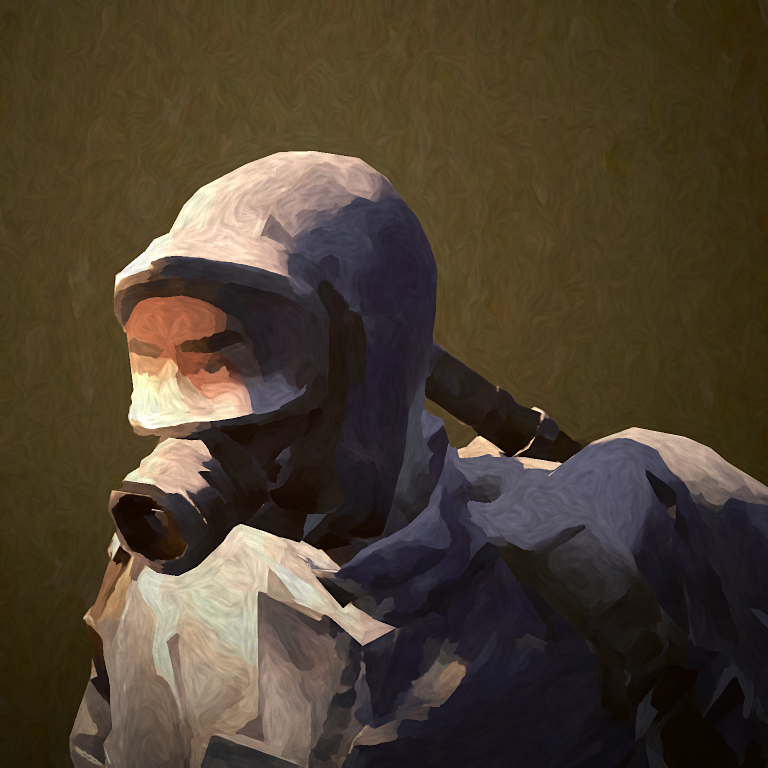
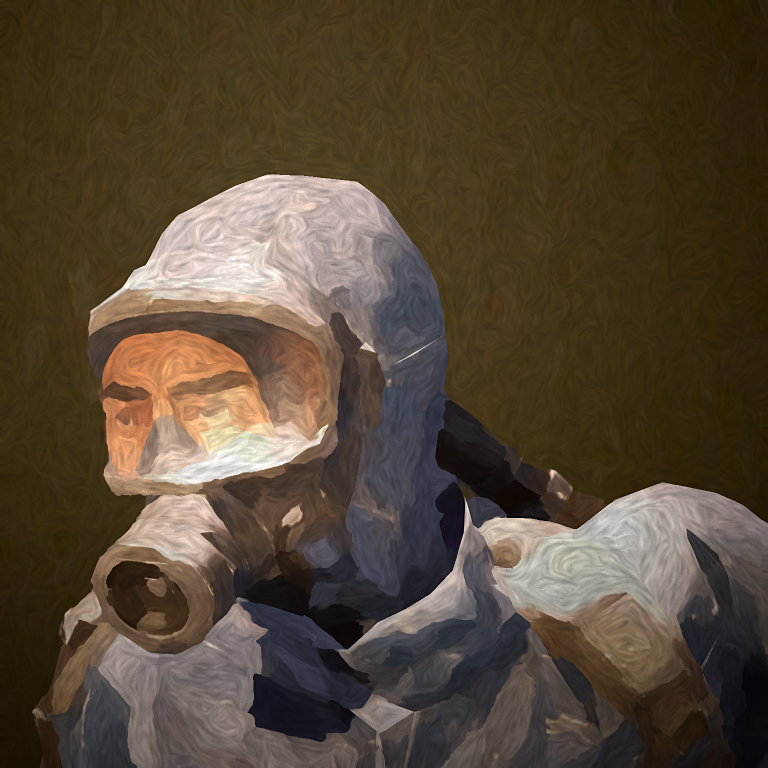
The city goes on past the widest view, and Juan Salvo's portrait is a mugshot like the neighbours'
Ported from the game's working repository (3c9b67c): a plain grid of low blocks wherever nothing stands beyond the
modelled city, north, west and south, so a wide window at the camera's farthest sees no bare snow at the bottom of
the picture; the land plane 400 m past the map; Juan Salvo's HUD portrait taken near enough to front and lit as the
painted portraits are (salvo_portrait.gd p4); the car cutouts' colectivo taken from its other side.

Claude-Session: https://claude.ai/code/session_01SecHTqzqMboyJMd3jjmppm

diff --git a/tools/dev/salvo_portrait_paint.py b/tools/dev/salvo_portrait_paint.py
@@ -10,7 +10,7 @@ the Plaza de Mayo: Hornero, Lechuza, Benteveo, Biguá) as one series. Nothing is
   - their canvas: the fine grain of their ground laid over the whole picture, the render and all;
   - their grade: the render's colours drawn part way to theirs (the warmth, the depth of the shadows), their vignette,
     and a fine grain.
-    python3 tools/dev/salvo_portrait_paint.py render.png out.png operatives.webp [side] [p1|p2|p3]
+    python3 tools/dev/salvo_portrait_paint.py render.png out.png operatives.webp [side] [p1|p2|p3|p4]
 The way he was taken (salvo_portrait.gd) sets the weight of the paint: p1 (chiaroscuro) the heaviest oil and a dimmer
 ground, p2 (profile) the darkest ground, p3 (over the shoulder) between.
 Needs numpy, Pillow and opencv-python."""
@@ -30,6 +30,7 @@ STYLES = {
     "p1": {"ground": 0.95, "stroke": 66, "lic": 0.055, "colour": 0.5, "light": 0.12, "lift": 1.38},
     "p2": {"ground": 0.8, "stroke": 78, "lic": 0.045, "colour": 0.45, "light": 0.08, "lift": 1.6},
     "p3": {"ground": 0.95, "stroke": 72, "lic": 0.05, "colour": 0.5, "light": 0.2, "lift": 1.45},
+    "p4": {"ground": 1.0, "stroke": 50, "lic": 0.07, "colour": 0.62, "light": 0.3, "lift": 1.22},
 }
 
 
